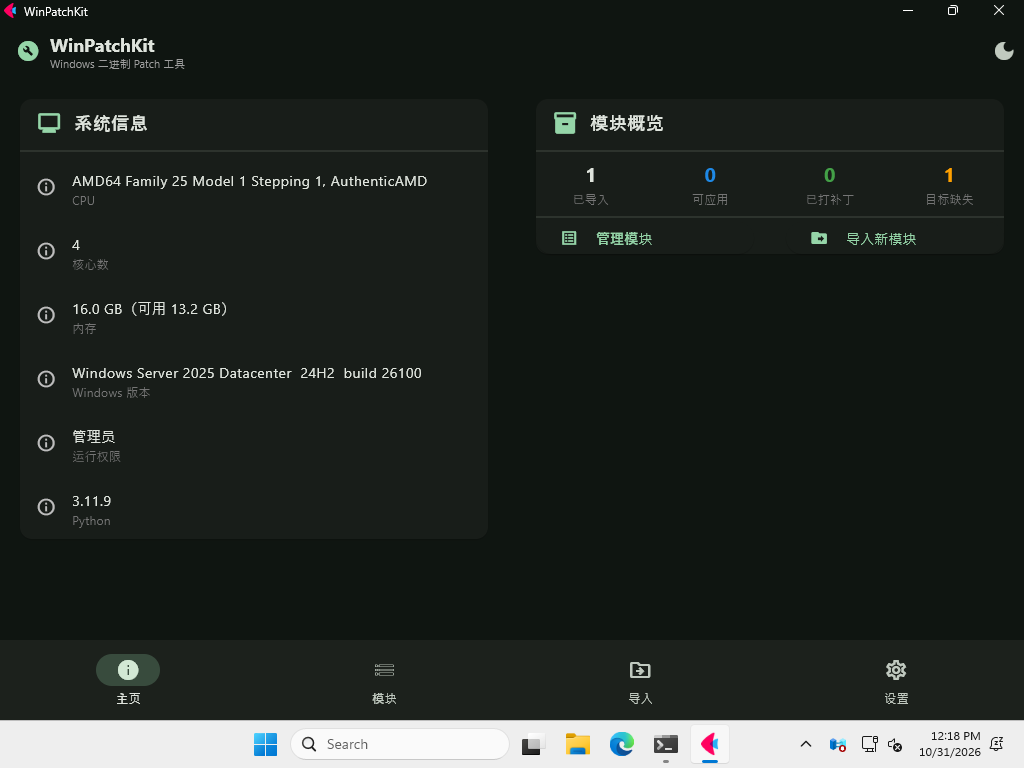
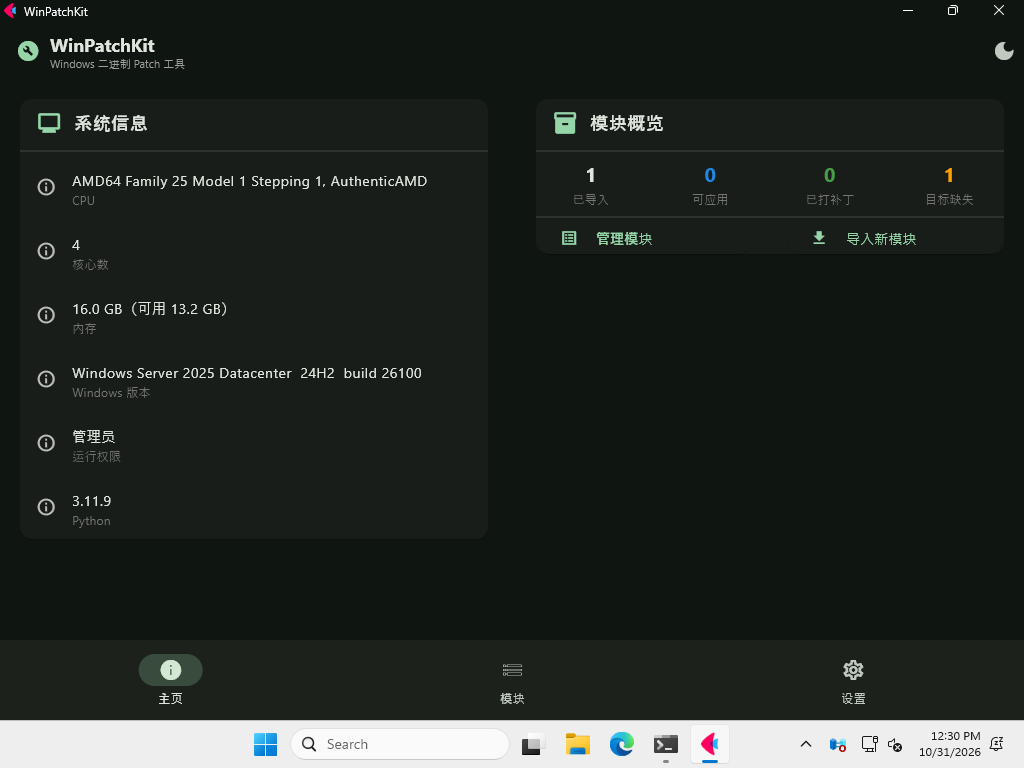
ci: screenshot each page (home/module/settings) via in-GUI driver handshake

Changed region(s): [[0.0938, 0.8438, 0.2188, 0.9062], [0.8125, 0.8438, 0.9062, 0.9375], [0.7812, 0.2812, 0.8125, 0.3125]]

diff --git a/gui/entry.py b/gui/entry.py
@@ -114,6 +114,11 @@ def main(page: ft.Page):
         home.reload()
     page.run_thread(_first_load)
 
+    # CI 截图驱动：设了 WINPATCHKIT_GUI_SCREENSHOT_DIR 时激活。
+    # 监听该目录下 _cmd 文件（内容为 tab 索引），读到即切换页面并写 _ack，
+    # 由 CI 轮询 _ack 确认切页完成后再截屏。仅在 CI 环境生效，本地无此变量则空跑。
+    _start_screenshot_driver(page, switch_to)
+
 
 def _toggle_theme(page: ft.Page):
     page.theme_mode = (ft.ThemeMode.LIGHT
@@ -121,6 +126,58 @@ def _toggle_theme(page: ft.Page):
                        else ft.ThemeMode.DARK)
     _apply_titlebar(page.title, page.theme_mode == ft.ThemeMode.DARK)
     page.update()
+
+
+def _start_screenshot_driver(page: ft.Page, switch_to):
+    """CI 截图驱动：监听命令文件，切换页面供 CI 逐页截屏。
+
+    仅当环境变量 WINPATCHKIT_GUI_SCREENSHOT_DIR 已设置时激活（本地无此变量则空跑）。
+    握手协议（目录内文件）：
+      _cmd  CI 写入，内容为 tab 索引（0/1/2）
+      _ack  驱动切页并渲染后写入，内容为索引；CI 轮询到它才截屏
+      _stop CI 写入后驱动退出
+    切换用 page.run_task（事件循环内），保证 page.update() 合法。
+    """
+    import os
+    shot_dir = os.environ.get("WINPATCHKIT_GUI_SCREENSHOT_DIR", "").strip()
+    if not shot_dir:
+        return
+
+    async def _loop():
+        import asyncio
+        os.makedirs(shot_dir, exist_ok=True)
+        cmd_f  = os.path.join(shot_dir, "_cmd")
+        ack_f  = os.path.join(shot_dir, "_ack")
+        stop_f = os.path.join(shot_dir, "_stop")
+        while True:
+            if os.path.exists(stop_f):
+                break
+            if os.path.exists(cmd_f):
+                idx = 0
+                try:
+                    with open(cmd_f, "r", encoding="utf-8") as f:
+                        idx = int(f.read().strip())
+                except Exception:
+                    pass
+                for p in (cmd_f, ack_f):
+                    try:
+                        os.remove(p)
+                    except OSError:
+                        pass
+                try:
+                    switch_to(idx)
+                except Exception:
+                    pass
+                await asyncio.sleep(1.2)   # 等切换 + 内容渲染稳定
+                try:
+                    with open(ack_f, "w", encoding="utf-8") as f:
+                        f.write(str(idx))
+                except OSError:
+                    pass
+            else:
+                await asyncio.sleep(0.2)
+
+    page.run_task(_loop)
 
 
 # ── DWM 标题栏适配 ──────────────────────────────────────────
